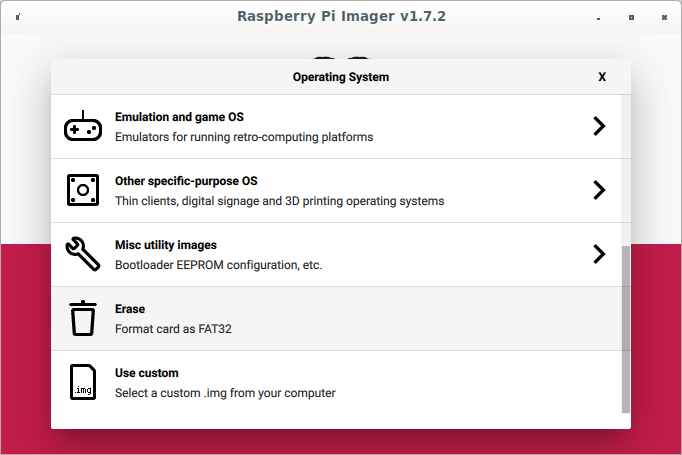
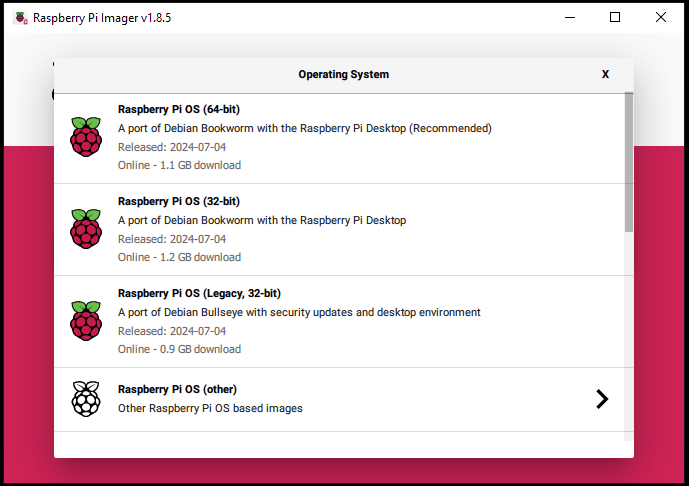
Add episodes

Changed region(s): [[0.0, 0.0, 1.0, 1.0]]

diff --git a/episodes/02-prepareSDCard.md b/episodes/02-prepareSDCard.md
@@ -51,22 +51,21 @@ provide pre-prepared microSD cards.
 
 ::: challenge
 ## Challenge 1: What software do you need to prepare an SD card?
-1. Word 2. Excel 3. Raspberry Pi Imager 4. LibreOffice 5. SonicPi
+1. Word 
+2. Excel 
+3. Raspberry Pi Imager 
+4. LibreOffice 
+5. SonicPi
 
 :::::: solution
-1. Word cannot be used to prepare an SD card, it is a word processor 3. Excel
-cannot be used to prepare an SD card, it is a spreadsheet 4. The correct answer
-is *3* 5. LibreOffice is an office suite and connot be used to prepare an SD
-card 6. SonicPi is a live coding environment to support computing and music
+1. Word cannot be used to prepare an SD card, it is a word processor 
+2. Excel cannot be used to prepare an SD card, it is a spreadsheet 
+3. The correct answer is *3* 
+5. LibreOffice is an office suite and connot be used to prepare an SD
+card 
+6. SonicPi is a live coding environment to support computing and music
 lessons in schools.
 
-::::::
-:::
-::: challenge
-## Challenge 2: Where would you find the CarpentriesOffline image?
-1. On the Raspberry Pi website 2. On The Carpentries website 3. On the
-CarpentriesOffline website 4. On the Microsoft website?
-:::::: solution
 ::::::
 :::
 
@@ -84,13 +83,13 @@ Raspberry Pi Imager software intro screen'}
 
 You can now click on the **Choose OS** button which will open a window for
 selecting the image you want to write to the SD card. Scroll down to the bottom
-where you should find an option **Use custom**. Click on that option:
+where you should find an option **Raspberry Pi OS (other)**. Click on that option:
 
 ![Selecting an image to write to the SD card](fig/ChooseImage.png){alt='An image
 of the RPi Imager software screen for selecting an image to be written to the SD
 card'}
 
-Navigate to where you saved the CarpentriesOffline image and select it. Make
+Select **Raspberry Pi OS Lite (64 bit)**. Make
 sure you have inserted the SD card into your computer. Now click on the **Choose
 Storage** button and select the device you want to write the image to: 
 

diff --git a/learners/setup.md b/learners/setup.md
@@ -4,7 +4,7 @@ title: Setup
 
 The minimum equipment you will need for this lesson would be:
 
-- 2 computers (eg. two Raspberry Pis or laptops), one which will serve as the 
+- 2 Raspberry Pis, one which will serve as the 
 login node and one which will be a compute node. These do not need keyboards 
 and screens but it is sometimes handy to have a keyboard and screen for when 
 you run into trouble.
@@ -15,19 +15,10 @@ useful for this workstation to have an ethernet port.
 - If your switch has Power over Ethernet (PoE) you might not need power supplies
 for your two node. If they don't, don't forget the power supplies. Also don't 
 forget the power supply for the switch itself.
-- You'll need at least one SD card if you are using Raspberry Pis or any other
-single board computer (SBC). It might be helpful if you have two in case PXE 
+- You'll need at least one SD card. It might be helpful if you have two in case PXE 
 (Preboot eXecution Environment) doesn't want to work.
 
 
-## Data Sets
-
-<!--
-FIXME: place any data you want learners to use in `episodes/data` and then use
-       a relative link ( [data zip file](data/lesson-data.zip) ) to provide a
-       link to it, replacing the example.com link.
--->
-Download the [data zip file](https://example.com/FIXME) and unzip it to your Desktop
 
 ## Software Setup
 

diff --git a/episodes/03-booting_and_updating.md b/episodes/03-booting_and_updating.md
@@ -1,0 +1,29 @@
+---
+title: "Booting and Updating"
+teaching: 10
+exercises: 0 
+---
+
+:::::::::::::::::::::::::::::::::::::: questions 
+
+- Questions to ask
+
+::::::::::::::::::::::::::::::::::::::::::::::::
+
+::::::::::::::::::::::::::::::::::::: objectives
+
+- Objectives
+
+::::::::::::::::::::::::::::::::::::::::::::::::
+
+## Text
+
+Some text.
+
+::::::::::::::::::::::::::::::::::::: keypoints 
+
+- What have we learnt?
+
+::::::::::::::::::::::::::::::::::::::::::::::::
+
+[r-markdown]: https://rmarkdown.rstudio.com/

diff --git a/episodes/04-installing_eessi.md b/episodes/04-installing_eessi.md
@@ -1,0 +1,29 @@
+---
+title: "An episode"
+teaching: 10
+exercises: 0 
+---
+
+:::::::::::::::::::::::::::::::::::::: questions 
+
+- Questions to ask
+
+::::::::::::::::::::::::::::::::::::::::::::::::
+
+::::::::::::::::::::::::::::::::::::: objectives
+
+- Objectives
+
+::::::::::::::::::::::::::::::::::::::::::::::::
+
+## Text
+
+Some text.
+
+::::::::::::::::::::::::::::::::::::: keypoints 
+
+- What have we learnt?
+
+::::::::::::::::::::::::::::::::::::::::::::::::
+
+[r-markdown]: https://rmarkdown.rstudio.com/

diff --git a/episodes/05-working_with_modules.md b/episodes/05-working_with_modules.md
@@ -1,0 +1,29 @@
+---
+title: "An episode"
+teaching: 10
+exercises: 0 
+---
+
+:::::::::::::::::::::::::::::::::::::: questions 
+
+- Questions to ask
+
+::::::::::::::::::::::::::::::::::::::::::::::::
+
+::::::::::::::::::::::::::::::::::::: objectives
+
+- Objectives
+
+::::::::::::::::::::::::::::::::::::::::::::::::
+
+## Text
+
+Some text.
+
+::::::::::::::::::::::::::::::::::::: keypoints 
+
+- What have we learnt?
+
+::::::::::::::::::::::::::::::::::::::::::::::::
+
+[r-markdown]: https://rmarkdown.rstudio.com/

diff --git a/episodes/06-installing_pxe.md b/episodes/06-installing_pxe.md
@@ -1,0 +1,29 @@
+---
+title: "An episode"
+teaching: 10
+exercises: 0 
+---
+
+:::::::::::::::::::::::::::::::::::::: questions 
+
+- Questions to ask
+
+::::::::::::::::::::::::::::::::::::::::::::::::
+
+::::::::::::::::::::::::::::::::::::: objectives
+
+- Objectives
+
+::::::::::::::::::::::::::::::::::::::::::::::::
+
+## Text
+
+Some text.
+
+::::::::::::::::::::::::::::::::::::: keypoints 
+
+- What have we learnt?
+
+::::::::::::::::::::::::::::::::::::::::::::::::
+
+[r-markdown]: https://rmarkdown.rstudio.com/

diff --git a/episodes/07-installing_scheduler.md b/episodes/07-installing_scheduler.md
@@ -1,0 +1,29 @@
+---
+title: "An episode"
+teaching: 10
+exercises: 0 
+---
+
+:::::::::::::::::::::::::::::::::::::: questions 
+
+- Questions to ask
+
+::::::::::::::::::::::::::::::::::::::::::::::::
+
+::::::::::::::::::::::::::::::::::::: objectives
+
+- Objectives
+
+::::::::::::::::::::::::::::::::::::::::::::::::
+
+## Text
+
+Some text.
+
+::::::::::::::::::::::::::::::::::::: keypoints 
+
+- What have we learnt?
+
+::::::::::::::::::::::::::::::::::::::::::::::::
+
+[r-markdown]: https://rmarkdown.rstudio.com/
